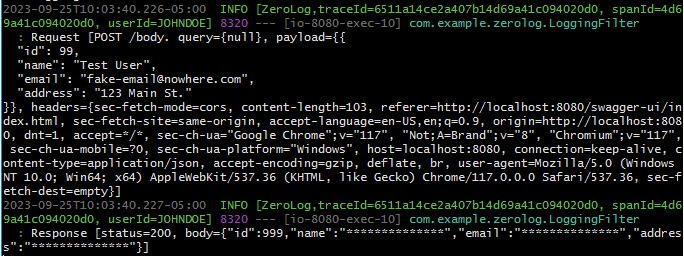
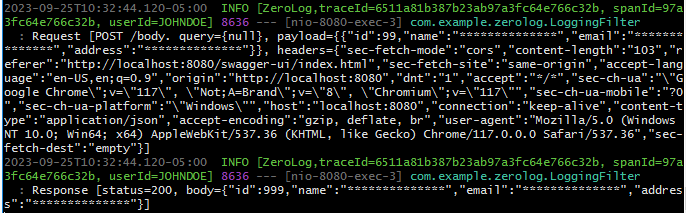
Updated

diff --git a/src/main/java/com/example/zerolog/LoggingFilter.java b/src/main/java/com/example/zerolog/LoggingFilter.java
@@ -29,7 +29,6 @@ import java.util.concurrent.atomic.AtomicReference;
 public class LoggingFilter extends OncePerRequestFilter {
 
     public static final String MASK_VAL = "**************";
-
     @Value("${sensitives:}")
     private String[] sensitives;
 
@@ -50,7 +49,7 @@ public class LoggingFilter extends OncePerRequestFilter {
 
             //Add logic for data filter
             log.info("Request [{} {}. query={{}}, payload={{}}, headers={}]",
-                    request.getMethod(), request.getRequestURI(), maskParams(request.getQueryString()), requestBody, getHeaders(requestWrapper));
+                    request.getMethod(), request.getRequestURI(), maskParams(request.getQueryString()), maskJson(requestBody), maskJson(getHeaders(requestWrapper)));
             log.info("Response [status={}, body={}]", response.getStatus(), maskJson(responseBody));
 
             responseWrapper.copyBodyToResponse();
@@ -80,6 +79,10 @@ public class LoggingFilter extends OncePerRequestFilter {
         return replaceParams.get();
     }
 
+    private String maskJson(Map<String, String> data) throws JsonProcessingException {
+        ObjectMapper mapper = new ObjectMapper();
+        return maskJson(mapper.writeValueAsString(data));
+    }
     private String maskJson(String jsonString) throws JsonProcessingException {
         ObjectMapper mapper = new ObjectMapper();
         JsonNode node = mapper.readTree(jsonString);
@@ -93,5 +96,5 @@ public class LoggingFilter extends OncePerRequestFilter {
         });
         return node.toString();
     }
-
+    
 }
